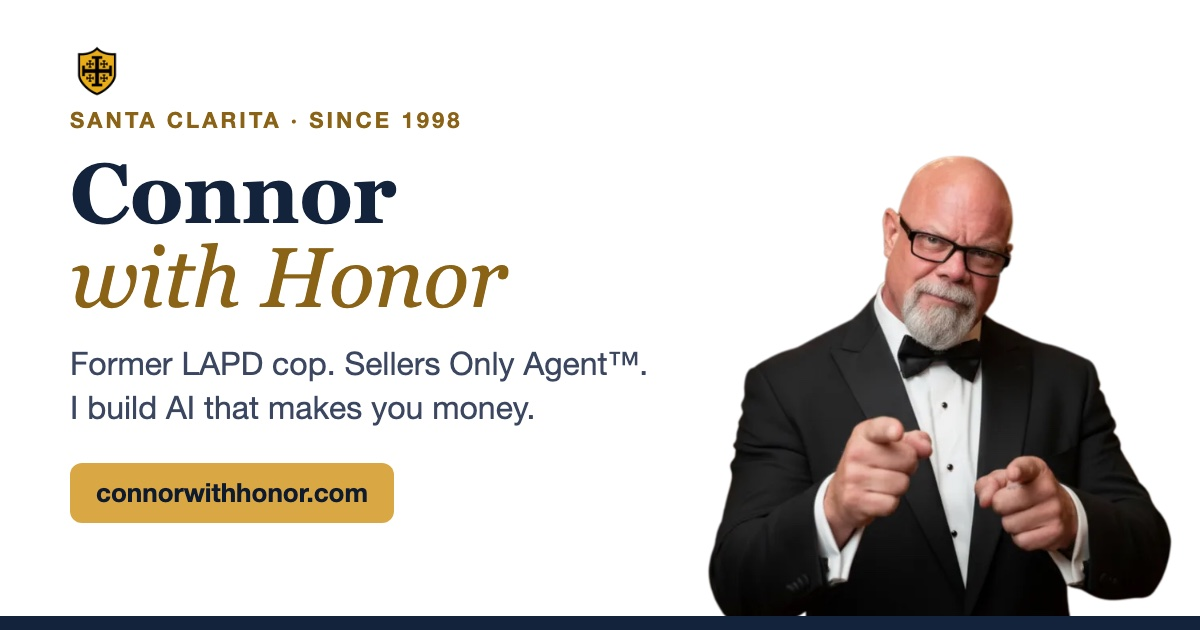
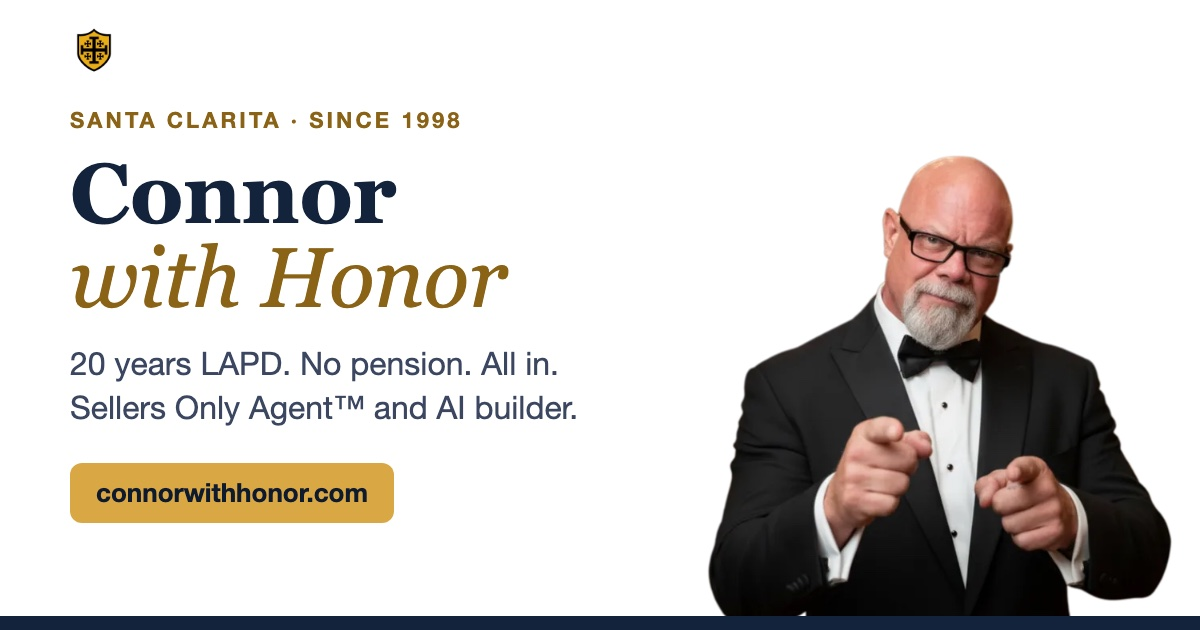
Homepage: approved short no-pension line on stats strip and everyday share card

Changed region(s): [[0.0617, 0.5429, 0.5242, 0.6937], [0.0617, 0.0302, 0.1233, 0.1508]]

diff --git a/index.html b/index.html
@@ -247,7 +247,7 @@ footer{background:var(--navy-2);color:#93a1b8;font-size:.9rem;padding:46px 0 30p
 <section class="proof" aria-label="Background">
  <div class="wrap">
   <div><b>Since 1998</b><span>Selling Santa Clarita homes</span></div>
-  <div><b>20 years LAPD</b><span>Honorably retired, no pension</span></div>
+  <div><b>20 years LAPD</b><span>No pension. All in.</span></div>
   <div><b>1,000+</b><span>Brokers and agents trained in AI</span></div>
   <div><b>Since 1983</b><span>Writing code, still building</span></div>
  </div>

diff --git a/scripts/home-template.html b/scripts/home-template.html
@@ -241,7 +241,7 @@ footer{background:var(--navy-2);color:#93a1b8;font-size:.9rem;padding:46px 0 30p
 <section class="proof" aria-label="Background">
  <div class="wrap">
   <div><b>Since 1998</b><span>Selling Santa Clarita homes</span></div>
-  <div><b>20 years LAPD</b><span>Honorably retired, no pension</span></div>
+  <div><b>20 years LAPD</b><span>No pension. All in.</span></div>
   <div><b>1,000+</b><span>Brokers and agents trained in AI</span></div>
   <div><b>Since 1983</b><span>Writing code, still building</span></div>
  </div>
